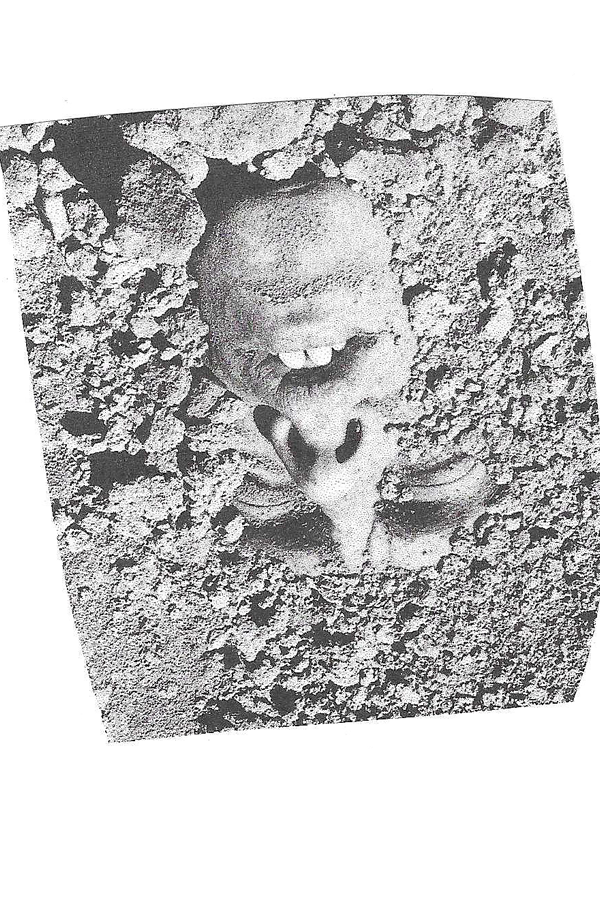
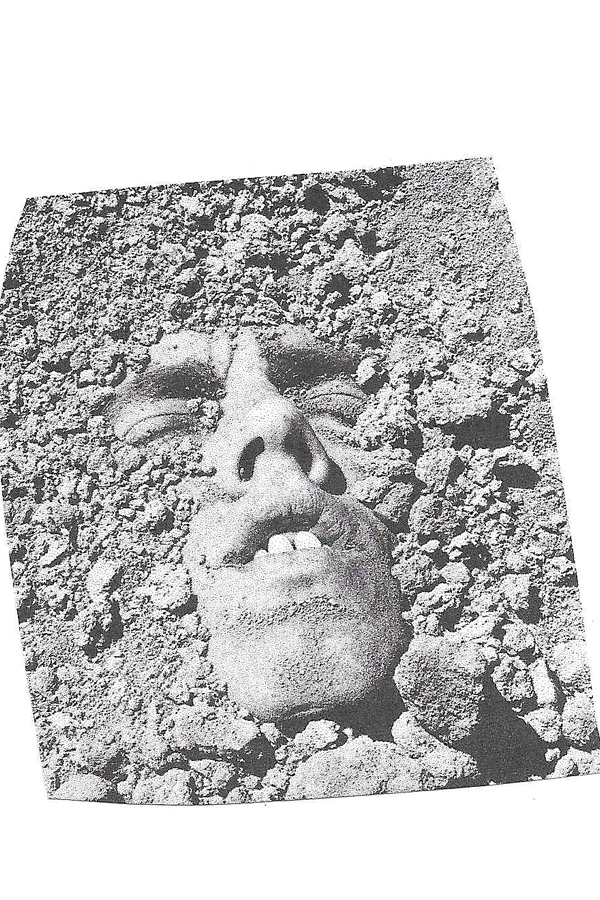
index-update

diff --git a/index.html b/index.html
@@ -165,7 +165,7 @@
     data-body="Felix's most overt body">
         <img src="images/E_Felix Gonzalez Torres Untitled (go go dancing platform) 1991.png" alt="Image 2-04">
     </div>
-    <div class="image-container object dont-touch staged" style="top: 60%; left: 1.5%;"  
+    <div class="image-container object dont-touch staged" style="top: 58%; left: 1.5%;"  
     data-title="Kara Walker A Subtlety or the Marvelous Sugar Baby 2014" 
     data-body="When this show was up there was a constant line of people waiting on Kent Avenue. I remember the sun hitting the small molasses-coated sculptures look like they were melting in the sun and crews of white people laughing and taking selfies near the cunt">
         <img src="images/E_Kara Walker A Subtlety or the Marvelous Sugar Baby 2014.png" alt="Image 2-05">
@@ -242,6 +242,11 @@
     data-title="Gala Committee Cycladic Idol 1998" 
     data-body="The Gala Committee’s Melrose Place prop fabrication project is 100% goals. Perfect equilibrium between a DIY conceptualism and a high art fabrication.">
         <img src="images/P_Gala Committee Cycladic Idol 1998.png" alt="Image 4-06">
+    </div>
+    <div class="image-container touch staged" style="top: 58%; left: 52%;"  
+    data-title="David Wojnarowicz Untitled (Face in Dirt) 1991" 
+    data-body="Gallup, NM. Rehearsing death. Taken May 1991, David died September 1992.">
+        <img src="images/P_David Wojnarowicz Untitled (Face in Dirt) 1991.png" alt="Image 4-07">
     </div>
     <div class="image-container object touch live" style="top: 75%; left: 79%;"  
     data-title="Erwin Wurm One Minute Sculpture 1997" 
